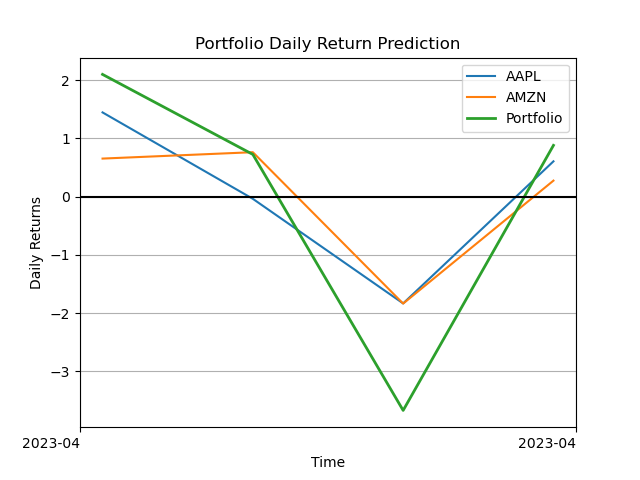
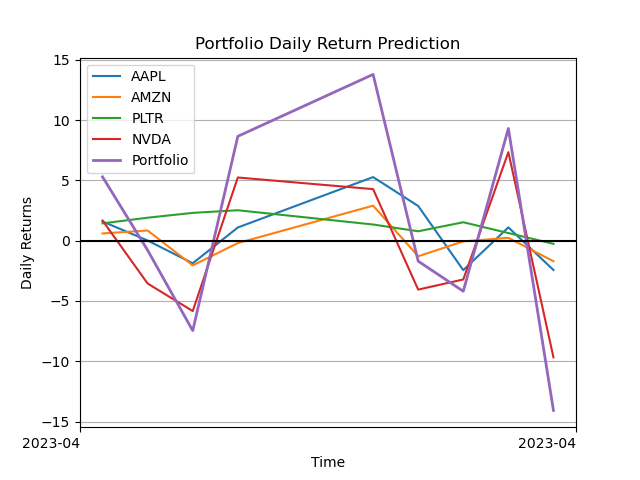
added cumulative graph

diff --git a/client.py b/client.py
@@ -116,7 +116,7 @@ def main():
     continue_loop = True
     while continue_loop:
         try:
-            user_input = str(input("How can I help you?\n"))
+            user_input = str(input("\nHow can I help you?\n"))
         except TypeError:
             print("Invalid input, please try again.\n")
 
@@ -170,6 +170,7 @@ def main():
             stockList.append(stock)
             stockList.append(days)
             stockList.append('1')
+            print("\nPredicting...\n")
             predictions = send_stock(stockList)
             pred_close = predictions['Close'].tolist()
             price = round(pred_close[int(days)-1], 2)
@@ -205,6 +206,7 @@ def main():
             #Check if user wants to predict a single stock or multiple, and select the relevent choice
             if len(stockList) == 2: #Checks that the list only contains one stock (and the number of days to predict)
                 stockList.append('2')
+                print("\nPredicting...\n")
                 data_rec = send_stock(stockList)
                 data_round = np.round(data_rec, 2)
                 print(f"The daily returns of {stockList[0]} over {days} days will be: {data_round}\n")
@@ -212,12 +214,28 @@ def main():
                 plots.plot_daily_returns(stockList[0], data_rec)
             else: #List contains more than one stock and no. of days, so must contain multiple stocks
                 stockList.append('6') 
+                print("\nPredicting...\n")
                 data_rec = send_stock(stockList)
                 data_round = data_rec.round(2)
-                print(f"The daily returns for your chosen stocks over {days} days will be:")
+                print(f"The daily returns for your chosen stocks over {days} days will be:\n")
                 print(data_round)
+                valid = False
+                while valid == False:
+                    try:
+                        graph_type = int(input("\nWould you like to see a graph of 1. Daily returns or 2. Cumulative returns of the portfolio(Please type 1 or 2 to select option): "))
+                    except TypeError:
+                        print("Invalid input, please try again.\n")
+                    if graph_type == 1 or graph_type == 2:
+                        valid = True
+                    else:
+                        print(f"{optimise_type} is not a valid input, please enter 1 or 2 accordingly.\n")
                 print("Here is a graph of my predictions, a copy has been saved in the 'Plots' folder. Please close the plot window to continue.")
-                plots.plot_daily_portfolio_returns(stockList[0:len(stockList)-2], data_rec)
+
+                if graph_type == 1:
+                    plots.plot_daily_portfolio_returns(stockList[0:len(stockList)-2], data_rec)
+                else:
+                    plots.plot_cumulative_portfolio_returns(stockList[0:len(stockList)-2], data_rec)
+
             
             
             
@@ -236,6 +254,7 @@ def main():
             stockList.append(stock)
             stockList.append(days)
             stockList.append('3')
+            print("\nPredicting...\n")
             data_rec = round(send_stock(stockList), 2)
             print(f"The average return of {stock} over {days} days will be ${data_rec}\n")            
 
@@ -253,6 +272,7 @@ def main():
             stockList.append(stock)
             stockList.append(days)
             stockList.append('4')
+            print("\nPredicting...\n")
             data_rec = round(send_stock(stockList), 2)
             print(f"The volatility of {stock} over {days} days will be {data_rec}\n")
 
@@ -273,6 +293,7 @@ def main():
             stockList.append(rfr) #appended before days and choice so that the server can process the data correctly
             stockList.append(days)
             stockList.append('5')
+            print("\nPredicting...\n")
             data_rec = round(send_stock(stockList), 2)
             print(f"The sharpe ratio of {stock} over {days} days will be {data_rec}\n")
 
@@ -316,6 +337,7 @@ def main():
             if optimise_type == 1:
                 stockList.append(days)
                 stockList.append('7')
+                print("\nPredicting...\n")
                 data_rec = send_stock(stockList)
                 min_var = data_rec.pop()
 
@@ -340,6 +362,7 @@ def main():
                 stockList.append(rfr)
                 stockList.append(days)
                 stockList.append('8')
+                print("\nPredicting...\n")
                 data_rec = send_stock(stockList)
                 max_sharpe = data_rec.pop()
 
